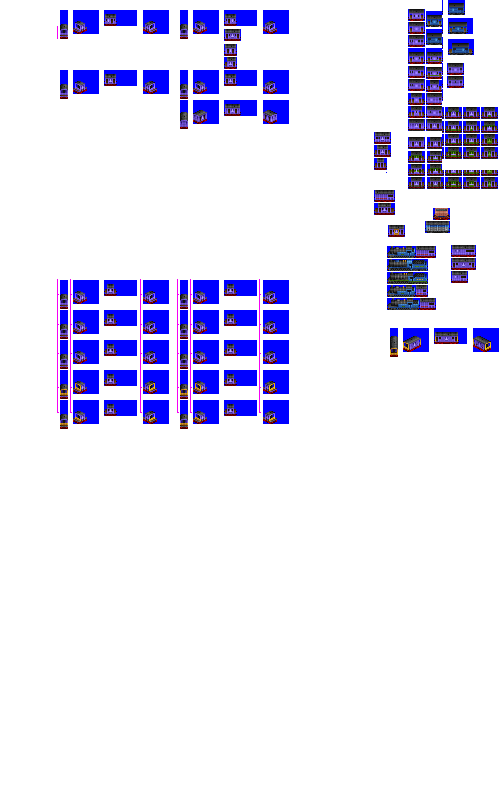
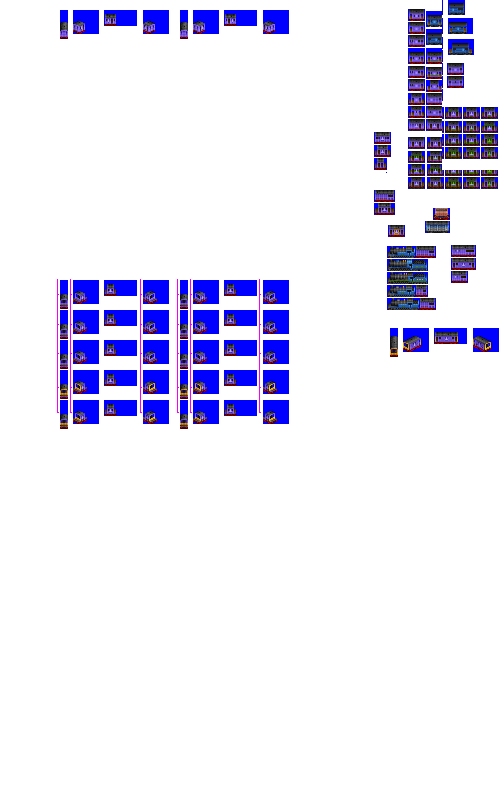
Change: more WIP on improved caboose sprites

Changed region(s): [[0.12, 0.0, 0.6, 0.1562], [0.21, 0.0, 0.24, 0.0312]]

diff --git a/src/vehicles/pony/caboose_cars_type_2_pony.py b/src/vehicles/pony/caboose_cars_type_2_pony.py
@@ -12,7 +12,7 @@ def main(**kwargs):
         gen=1,
         subtype="A",
         base_track_type="NG",
-        sprites_complete=True,
+        sprites_complete=False,
     )
 
     model_def.add_unit_def(unit_cls_name="CabooseCarUnit", chassis="2_axle_ng_8px")
@@ -39,7 +39,7 @@ def main(**kwargs):
         base_numeric_id=29350,
         gen=1,
         subtype="aA",
-        sprites_complete=False,
+        sprites_complete=True,
     )
 
     model_def.add_unit_def(unit_cls_name="CabooseCarUnit", chassis="2_axle_caboose_12px")
@@ -51,7 +51,7 @@ def main(**kwargs):
         base_numeric_id=38980,
         gen=1,
         subtype="aB",
-        sprites_complete=False,
+        sprites_complete=True,
     )
 
     model_def.add_unit_def(unit_cls_name="CabooseCarUnit", chassis="2_axle_caboose_16px")
@@ -63,7 +63,7 @@ def main(**kwargs):
         base_numeric_id=29210,
         gen=1,
         subtype="aC",
-        sprites_complete=False,
+        sprites_complete=True,
     )
 
     model_def.add_unit_def(unit_cls_name="CabooseCarUnit", chassis="4_axle_caboose_24px")

diff --git a/src/vehicles/pony/caboose_cars_type_3_pony.py b/src/vehicles/pony/caboose_cars_type_3_pony.py
@@ -12,7 +12,7 @@ def main(**kwargs):
         gen=1,
         subtype="A",
         base_track_type="NG",
-        sprites_complete=True,
+        sprites_complete=False,
     )
 
     model_def.add_unit_def(unit_cls_name="CabooseCarUnit", chassis="2_axle_ng_8px")
